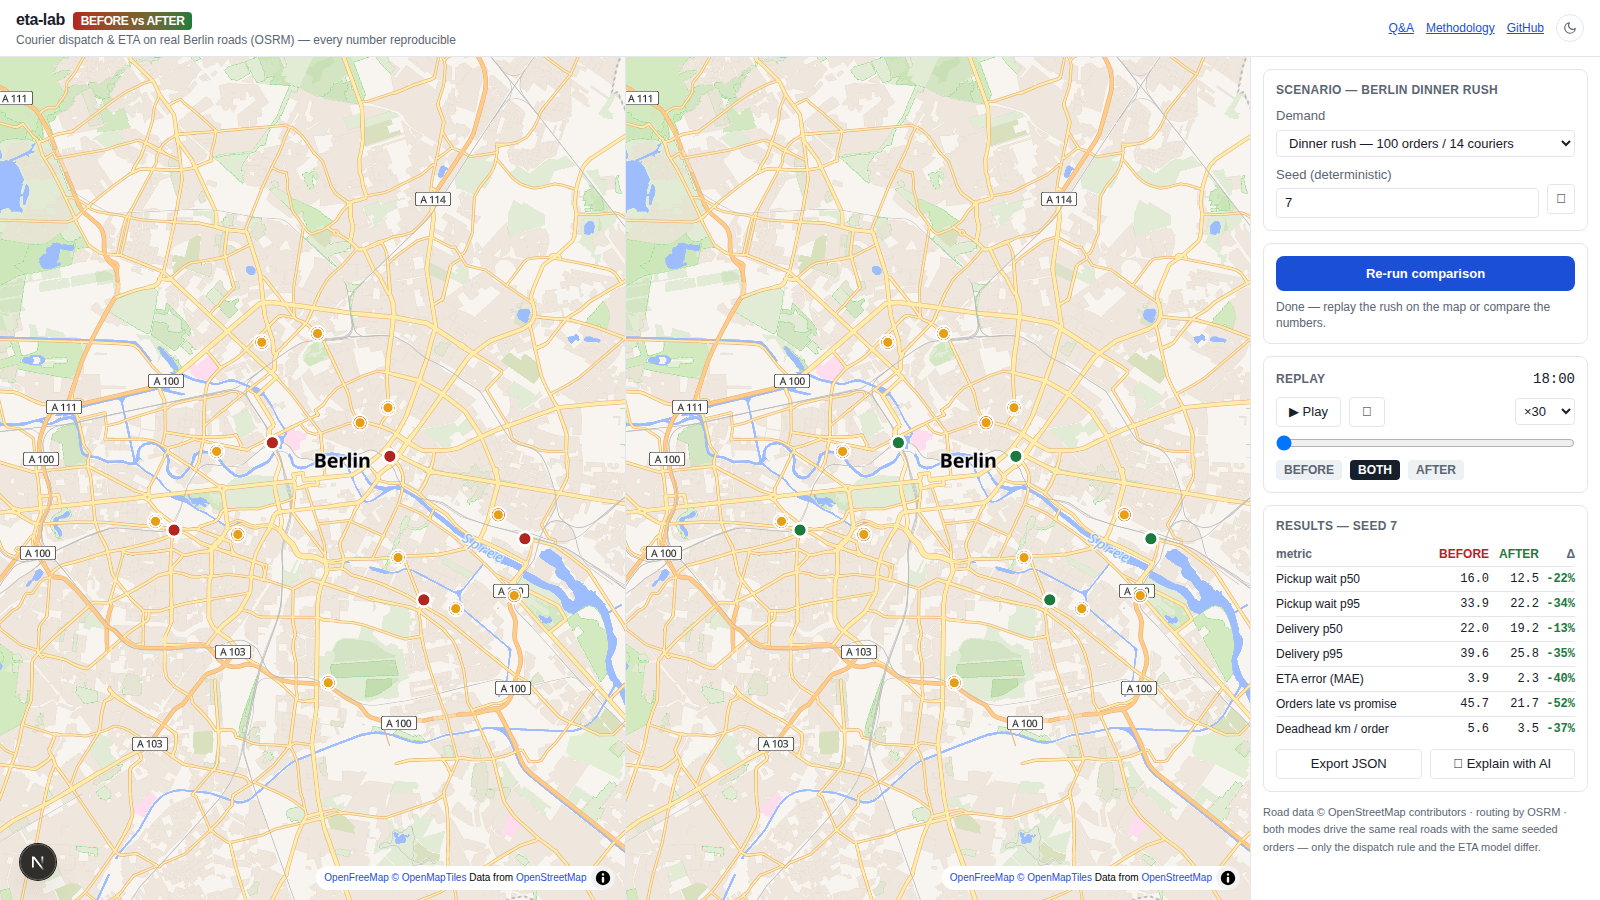
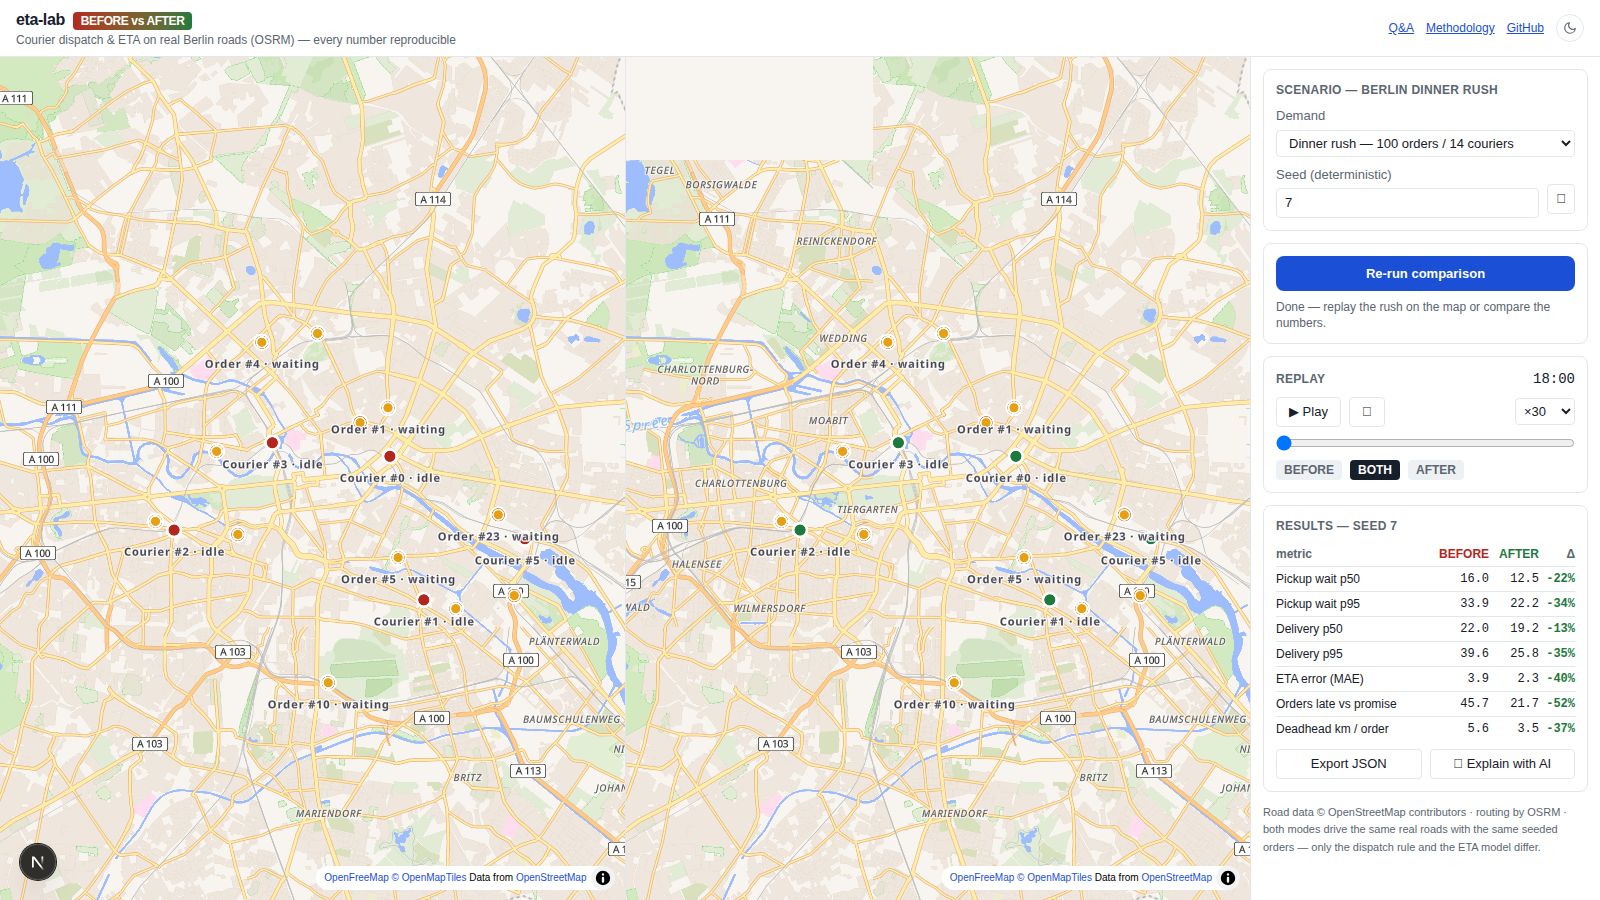
feat: map point labels — every dot captioned (Restaurant · name, Order # · status, Courier # · riding/delivering/idle)

diff --git a/src/components/MapView.tsx b/src/components/MapView.tsx
@@ -1,7 +1,7 @@
 'use client';
 
 import { useEffect, useImperativeHandle, useRef, forwardRef } from 'react';
-import { Map as MapLibreMap, AttributionControl, Popup, type GeoJSONSource, type MapLayerMouseEvent } from 'maplibre-gl';
+import { Map as MapLibreMap, AttributionControl, Popup, type GeoJSONSource, type MapLayerMouseEvent, type SymbolLayerSpecification } from 'maplibre-gl';
 import 'maplibre-gl/dist/maplibre-gl.css';
 import type { Scenario } from '@/lib/scenario';
 import type { SimResult, TrailSeg } from '@/lib/sim';
@@ -110,6 +110,25 @@ export const MapView = forwardRef<MapViewHandle, Props>(function MapView(
       },
     });
 
+    const labelLayout: SymbolLayerSpecification['layout'] = {
+      'text-field': ['get', 'label'],
+      'text-font': ['Noto Sans Bold'],
+      'text-size': 11,
+      'text-offset': [0, 1.35],
+      'text-anchor': 'top',
+      'text-max-width': 14,
+      'text-letter-spacing': 0.1,
+      'text-padding': 2,
+    };
+    const labelPaint: SymbolLayerSpecification['paint'] = {
+      'text-color': '#3c3a45',
+      'text-halo-color': '#ffffff',
+      'text-halo-width': 1.4,
+    };
+    map.addLayer({ id: 'restos-label', type: 'symbol', source: 'restos', layout: labelLayout, paint: labelPaint });
+    map.addLayer({ id: 'orders-label', type: 'symbol', source: 'orders', layout: labelLayout, paint: labelPaint });
+    map.addLayer({ id: 'couriers-label', type: 'symbol', source: 'couriers', layout: labelLayout, paint: labelPaint });
+
     const show = (e: MapLayerMouseEvent) => {
       const d = dataRef.current;
       const f = e.features?.[0];
@@ -194,6 +213,7 @@ export const MapView = forwardRef<MapViewHandle, Props>(function MapView(
         type: 'Feature' as const,
         geometry: { type: 'Point' as const, coordinates: r.pos },
         properties: {
+          label: `Restaurant · ${r.name}`,
           html: `<b>${r.name}</b><br/><span class="popup-muted">${r.area} · prep ~${Math.round(r.prepMeanMin)} min</span>`,
         },
       })),
@@ -224,10 +244,19 @@ export const MapView = forwardRef<MapViewHandle, Props>(function MapView(
               : status === 'onTheWay'
                 ? `on the way to the customer`
                 : `delivered`;
+        const shortStatus =
+          status === 'waiting'
+            ? 'waiting'
+            : status === 'cooking'
+              ? 'cooking'
+              : status === 'onTheWay'
+                ? 'on the way'
+                : 'delivered';
         orderFeatures.push({
           type: 'Feature',
           geometry: { type: 'Point', coordinates: status === 'done' || status === 'onTheWay' ? o.cust : o.resto.pos },
           properties: {
+            label: `Order #${o.id} · ${shortStatus}`,
             color: ORDER_COLORS[status],
             status,
             html: `<b>Order #${o.id}</b><br/><span class="popup-muted">${o.resto.name} · ${info}<br/>` +
@@ -249,6 +278,7 @@ export const MapView = forwardRef<MapViewHandle, Props>(function MapView(
           type: 'Feature',
           geometry: { type: 'Point', coordinates: pos },
           properties: {
+            label: `Courier #${c.id} · ${active ? (active.kind === 'pickup' ? 'riding' : 'delivering') : 'idle'}`,
             html: `<b>Courier #${c.id}</b><br/><span class="popup-muted">${active ? (active.kind === 'pickup' ? 'riding to restaurant' : 'delivering') : 'idle'}</span>`,
           },
         });
@@ -258,7 +288,7 @@ export const MapView = forwardRef<MapViewHandle, Props>(function MapView(
         courierFeatures.push({
           type: 'Feature',
           geometry: { type: 'Point', coordinates: c.home },
-          properties: { html: `<b>Courier #${c.id}</b>` },
+          properties: { label: `Courier #${c.id} · idle`, html: `<b>Courier #${c.id}</b>` },
         });
     }
     (map.getSource('couriers') as GeoJSONSource).setData({ type: 'FeatureCollection', features: courierFeatures });
